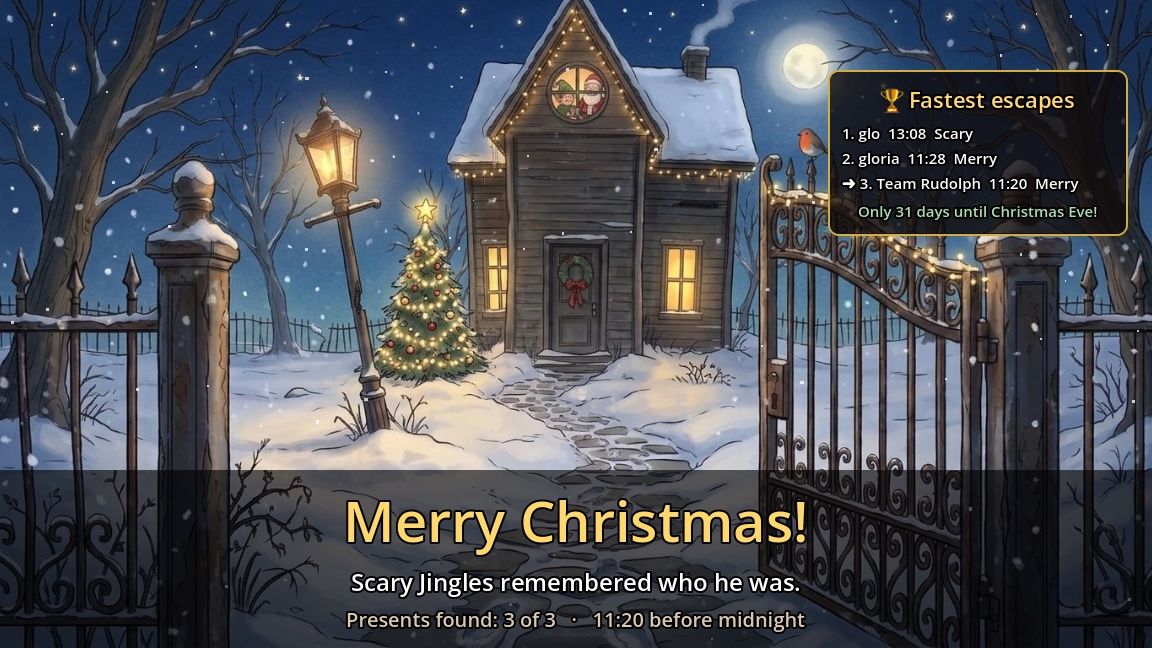
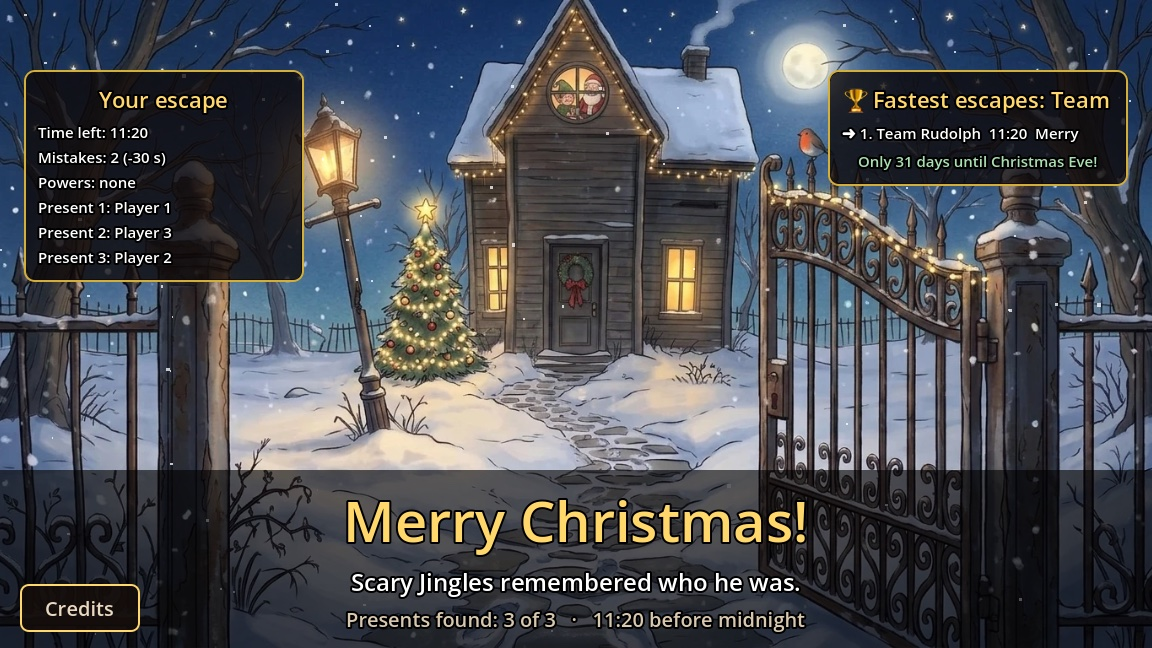
Docs for the final version: README, walkthrough, demo plan, screenshots
- README: languages, weather windows, accessibility, last five minutes, two leaderboards, 623 tests
- Walkthrough: new questions and answers, honest limits, who built what
- Demo plan: two minutes plus three for questions, no names
- Endings retaken; new pictures of the weather window and the title

Changed region(s): [[0.0, 0.0926, 0.2812, 0.463], [0.7188, 0.1235, 1.0, 0.3704], [0.0, 0.8951, 0.125, 0.9877]]

diff --git a/docs/WALKTHROUGH.md b/docs/WALKTHROUGH.md
@@ -44,15 +44,20 @@ and the rules can be tested without starting any screen.
 
 | Question | Answer and file |
 | --- | --- |
-| Where does the game start? | `scenes/main.tscn` + `scripts/main.gd`: story → title → lobby → hero choice → hall/rooms → ending |
-| Where are the puzzles' rules? | `scripts/rules/` one file per part: `fuse_rules`, `living_room_rules`, `bathroom_rules`, `bedroom_rules`, `attic_rules`, `photo_rules`, `clock_rules`, `inventory_rules`, `power_rules`, `walk_rules`, `leaderboard_rules`, `weather_rules`, `character_rules`; `game_rules.gd` puts them together (`new_game`, `apply`) |
+| Where does the game start? | `scenes/main.tscn` + `scripts/main.gd`: warning → story → title → lobby → hero choice → hall/rooms → ending |
+| Where are the puzzles' rules? | `scripts/rules/` one file per part: `fuse_rules`, `living_room_rules`, `bathroom_rules`, `bedroom_rules`, `attic_rules`, `photo_rules`, `clock_rules`, `inventory_rules`, `power_rules`, `walk_rules`, `leaderboard_rules`, `results_rules`, `weather_rules`, `character_rules`; `game_rules.gd` puts them together (`new_game`, `apply`) |
 | How is the ending decided? | `attic_rules.gd` `choose(attic, choice, has_photo, has_cookies)`: "lock him in" always works (Scary); "leave the photo and cookies" (Merry) only with the whole photo **and** the cookies, otherwise it is refused with a hint. Midnight comes from `clock_rules.gd` |
 | Where are numbers like the 20 minutes? | `scripts/settings.gd` (`GAME_SECONDS`, ports, items, heroes, rescue tries) |
 | How do players connect? | `scripts/net/network.gd` (Godot high-level multiplayer, ENet, port 47411) and `room_code.gd` (4-letter code, found on the Wi-Fi via port 47412) |
 | Playing alone? | `network.play_alone()`: the computer is host with one player, no network at all |
 | Where is the data stored? | the running game in memory on the host (`net.game`); the **save** in `user://saved_game.save` on the host's computer; the **leaderboard** in a Supabase table online, or `user://leaderboard.json` locally |
-| The database table? | `supabase/leaderboard.sql`: columns, checks and the two access rules |
-| External API? | weather in Nuuk from **Open-Meteo** (`window_view.gd`, `weather_rules.gd`, no key) and **Supabase** for the leaderboard (`net/leaderboard.gd`) |
+| The database table? | `supabase/leaderboard.sql`: columns, checks and the two access rules; `leaderboard_mode.sql` added the column for solo/team later |
+| External API? | weather in Nuuk from **Open-Meteo** (`window_view.gd`, `weather_rules.gd`, no key; the windows in the living room, bathroom and bedroom) and **Supabase** for the leaderboard (`net/leaderboard.gd`) |
+| Languages? | `lang.gd` + `translations/de.gd`, `pt.gd` (spec 34): the code stays English, every device translates what it shows |
+| What happens at the end? | `ending.gd`: results card (`results_rules.gd`), leaderboard, countdown, credits (`Settings.TEAM`) |
+| The last five minutes? | `clock_rules.gd` `dread_stage`, `chime_due` (pure functions) and `main.gd` `_update_dread` (spec 35) |
+| Warning and "Reduce flashing"? | `flash_warning.gd`, `comfort.gd` (spec 34) |
+| Pause? | the Pause button stops the game for the whole team (an action like any other, spec 26); in the browser, leaving the tab pauses by itself (`main.gd` `_watch_web_page`) |
 | Pictures and sounds? | `godot/assets/`, every source and licence in `assets/CREDITS.md`; helper scripts in `godot/tools/` |
 | The browser version? | `web/` (Godot's Web export, preset in `godot/export_presets.cfg`), put online by `.github/workflows/pages.yml` (spec 32) |
 | Tests? | `godot/tests/`, one file per part, runner `run_tests.gd` |
@@ -67,21 +72,27 @@ set up, otherwise in a local JSON file. Nothing is stored about the players exce
 they type.
 
 **What do the tests cover, and what do they not cover?**
-There are about 540 tests in `godot/tests/`. They cover:
+There are 623 tests in `godot/tests/` (23 November 2026). They cover:
 - every rule with **accepted and refused** actions and edge cases (wrong code, twice, dark
   room, wrong player, too many tries → rescue hint)
 - the screens: does the button exist, is it greyed out, what does a click send?
 - the network with real host and players on this computer
-- save and resume, the leaderboard rules (bad rows from outside are thrown away), and the
-  weather (good answer, bad answer, no answer)
+- save and resume, the leaderboard rules (bad rows from outside are thrown away; solo and
+  team apart), and the weather (good answer, bad answer, no answer)
+- security: an unknown sender, a wrong player number and senseless input change nothing
+  (`test_network_security.gd`; more in `SECURITY.md`)
+- the languages: every translation keeps its placeholders, and the texts fit on the hall,
+  the hero choice and the end screen in all three languages
 
 A test also fails if Godot reports an error while it runs, so a crash can never look green.
 Tests use their own save and leaderboard files and never touch the internet.
 
 They do **not** cover:
 - how it looks (pictures, positions): we checked that by screenshots and play tests
-- sound
+- sound (they check *which* sound would be played, not how it sounds)
 - three real laptops on a real Wi-Fi
+- a real browser: the pause on leaving the tab is tested as a function; in the browser we
+  tried it by hand
 - the real Supabase and Open-Meteo servers
 
 **What happens if the external API is unavailable?**
@@ -89,6 +100,26 @@ They do **not** cover:
   and it snows anyway. The game never waits for it, and it costs no time.
 - **Supabase:** after 4 seconds (`TIMEOUT_SECONDS`), or on any error, the end screen shows
   the local list instead. Every win is always saved locally too.
+
+**Why are there two leaderboards?**
+One player solves all rooms alone, a team of three splits them up, with the same 20 minutes.
+The times cannot be compared fairly, so every win has a `mode` (solo or team) and the end
+screen shows only its own list. Wins from before this change count as team wins.
+
+**How do the languages work in a three-player game?**
+The host builds every message in English ("Player 2: wrong order, -10 s"). Each device
+translates it for itself: a template like `%s: wrong order, -%d s` matches the message, and
+its parts are translated one by one. So the shared game has no language, three players can
+use three languages at once, and a text without a translation simply stays English.
+
+**Why does the game pause when I leave the browser tab?**
+A browser stops drawing a page in the background but lets its sound play on. So the game
+pauses and mutes itself, and waits for *Continue*. This exists only in the browser (where
+one person plays), so in a team game nobody stops the others by accident.
+
+**What did you do for accessibility?**
+A warning before the flickering lights with a *Reduce flashing* switch, fuses that differ by
+shape as well as by colour, the story as subtitles, a music button, three languages.
 
 **Why is the host the referee?**
 If every player changed the game themselves, two players could change it at the same time
@@ -112,8 +143,8 @@ every room owner could work in their own file without breaking the others.
   (Checked in the Supabase dashboard: *Database → Policies*; the SQL is in
   `supabase/leaderboard.sql`.)
 - Input is checked in two places: the host's rules check every action, and leaderboard
-  rows from outside are checked (name 1-20 letters, merry/scary, 0-3600 s) both by the
-  Supabase table and in the game.
+  rows from outside are checked (name 1-20 letters, merry/scary, solo/team, 0-3600 s) both by
+  the Supabase table and in the game.
 - **The rules for secrets** are written down in `AGENTS.md`; `supabase.cfg.example` shows
   the format with placeholders, and the real `supabase.cfg` is in `.gitignore`. The Git
   history contains no key.
@@ -132,7 +163,7 @@ every room owner could work in their own file without breaking the others.
   add buttons for walking.
 - **Multiplayer needs the same network.** Players find the host on the local Wi-Fi (or
   type the host's address). It does not work across the internet, and university Wi-Fi may
-  block it, so the demo uses three windows on one laptop or **Play alone**.
+  block it, so the demo uses one phone's hotspot (or three windows on one laptop).
 - **The host is a single point of failure.** If the host quits, everyone is back in the
   lobby; only the host can resume the save.
 - **The leaderboard trusts the host.** With the public key, someone could send a fake but
@@ -140,6 +171,15 @@ every room owner could work in their own file without breaking the others.
 - **The free Supabase project pauses** after a week without use. Then the online list is
   not reachable and the game shows the local list after 4 seconds (nothing breaks). Before
   the presentation, open the Supabase dashboard once to wake it up.
+- **Scores from the browser are not online.** The browser version has no key on purpose, so
+  its wins stay in that browser. Only a host with `supabase.cfg` saves wins online.
+- **Walking is for atmosphere.** The figures walk in the hall, but the puzzles are solved by
+  clicking; standing at an object is not needed. It was planned as a first step (spec 19).
+- **Some things stay English:** the story's voice, the texts inside pictures, and the titles
+  of the two endings. *Reduce flashing* is not remembered after closing the game, and it does
+  not switch off the short scare in the bathroom mirror.
+- **Several specs have the number 34.** They were written by several people at once on the
+  last day; each is its own file with its own name.
 - **The puzzles are random within limits** (clock time, tap order, symbols, fuse orders),
   but the rooms and story are always the same.
 - **Pictures** are fixed 1376 × 768 pictures; a very different window shape shows bars.
@@ -149,6 +189,8 @@ every room owner could work in their own file without breaking the others.
 - **Online play** over the internet, also in the browser: replace ENet with WebSockets
   through a server in the middle (or Supabase Realtime). The rules would not change at
   all, only `network.gd`.
+- **A new language:** one more file in `scripts/translations/` and one line in
+  `Lang.LANGUAGES`.
 - **A new room:** a scene + a rules file + an entry in `main.gd` `SCREENS` + actions in
   `game_rules.gd` `apply`.
 - **Fair leaderboard:** let a small server (e.g. a Supabase Edge Function) check the
@@ -161,7 +203,7 @@ every room owner could work in their own file without breaking the others.
 | Part | Main person |
 | --- | --- |
 | Hall, fuse box, network, clock, inventory, save/resume, weather | Mathies |
-| Living room, clock lock, rhyme | Lara |
-| Bathroom, attic, endings, pictures, single player, powers, leaderboard, cookies | Gloria |
-| Bedroom, toy chest, advent calendar | Mika |
-| Story, title, heroes and accessories, walking, sounds, pause | Leon |
+| Living room, clock lock, rhyme, security tests and review (`SECURITY.md`) | Lara |
+| Bathroom, attic, endings, pictures, single player, powers, leaderboard, cookies, browser version | Gloria |
+| Bedroom, toy chest, advent calendar, weather windows in bedroom and bathroom, browser pause, Windows fix | Mika |
+| Story, title, heroes and accessories, walking, sounds, pause, languages, music button, results card, credits, warning, hover glow, last five minutes, two leaderboards | Leon |

diff --git a/README.md b/README.md
@@ -16,17 +16,32 @@ left, and the game says what is missing.
 
 Every hero has one power per game: Santa's **Ho ho hint**, the Snowman's **Freeze**
 (+30 seconds) and the Nutcracker's **Crack** (part of an answer). The fastest wins go on a
-**leaderboard** on the end screen, with a countdown to Christmas Eve.
+**leaderboard** on the end screen (one list for solo players, one for teams), next to a
+results card and a countdown to Christmas Eve.
+
+### What else is in it
+
+- **Three languages:** English, German and Portuguese, chosen on the title screen. Every
+  player chooses for themselves, so a team can play in three languages at once. (The
+  story's voice is English; its subtitles are translated.)
+- **Easier on the eyes:** a warning before the flickering lights with a *Reduce flashing*
+  switch (also on the pause screen), and the fuses differ by shape as well as by colour.
+- **Real weather:** the windows in the living room, bathroom and bedroom show the weather in
+  Nuuk, Greenland, right now.
+- **The last five minutes get scary:** the music speeds up, Jingles' snoring is heard
+  everywhere, the clock strikes every minute, and in the last two minutes the lights flicker.
+- **Small things:** a music on/off button, a soft glow on clickable things, a floating
+  "−10 s" when a wrong answer costs time, credits, pause, save and resume.
 
 ## Team
 
 | Name | Student number | Main parts |
 | --- | --- | --- |
-| Gloria Bogea Heinzel | 79191 | bathroom, attic, end screens, all pictures, single player, hero powers, leaderboard, cookies |
-| Lara Victoria Glück | 70426 | living room, clock lock, rhyme |
-| Leon Blieffert | 73695 | title and story, characters and accessories, walking, sounds, pause |
+| Gloria Bogea Heinzel | 79191 | bathroom, attic, end screens, all pictures, single player, hero powers, leaderboard, cookies, browser version |
+| Lara Victoria Glück | 70426 | living room, clock lock, rhyme, security tests and review |
+| Leon Blieffert | 73695 | title and story, characters and accessories, walking, sounds, pause, languages, music button, results card, credits, last five minutes |
 | Carl Mathies Rumohr | 71317 | hall and fuse box, network, clock, inventory, save and resume, weather |
-| Mika Nolte | 71772 | bedroom, toy chest, advent calendar |
+| Mika Nolte | 71772 | bedroom, toy chest, advent calendar, weather windows in bedroom and bathroom, browser pause, Windows fix |
 
 ## Demo
 
@@ -34,7 +49,9 @@ Every hero has one power per game: Santa's **Ho ho hint**, the Snowman's **Freez
 
 Play it in a desktop browser on a laptop or computer (Chrome, Firefox, Safari, Edge).
 Phones and tablets are not supported: the game needs a keyboard (for the name and for
-walking).
+walking). First comes a short warning about flickering lights (*Continue*), then *Click to
+start*: a browser plays no sound before the first click. If you leave the tab, the game
+pauses by itself; *Continue* goes on.
 
 The browser version is for **one player** (a web page may not open the network port that
 playing together needs). The **three-player game** runs in the Godot version on laptops in
@@ -51,9 +68,11 @@ Moments a short demo cannot reach (made from the game itself):
 | ![The attic after a wrong code: Jingles opens one eye](docs/screenshots/3-attic-wrong-code.jpg) | ![The attic choice: lock him in or leave the photo and cookies](docs/screenshots/4-attic-choice.jpg) |
 | A wrong code: Jingles opens one eye, and it costs 20 seconds | The choice: lock him in, or leave the photo and cookies (only possible with the whole photo and the cookies) |
 | ![Merry Christmas ending with the leaderboard](docs/screenshots/5-ending-merry.jpg) | ![Scary Christmas ending](docs/screenshots/6-ending-scary.jpg) |
-| Merry Christmas, with the leaderboard ("Team Rudolph" is an example) | Scary Christmas |
-| ![Midnight: Scary Jingles has won](docs/screenshots/7-ending-midnight.jpg) | |
-| Midnight: the clock struck twelve | |
+| Merry Christmas, with the results card and the leaderboard ("Team Rudolph" is an example) | Scary Christmas |
+| ![Midnight: Scary Jingles has won](docs/screenshots/7-ending-midnight.jpg) | ![The weather window with the live weather](docs/screenshots/8-weather-window.jpg) |
+| Midnight: the clock struck twelve | The weather in Nuuk right now, seen through the window |
+| ![The title screen with the three languages](docs/screenshots/9-title-languages.jpg) | |
+| The title screen: English, German or Portuguese | |
 
 ## Run the game
 
@@ -81,7 +100,8 @@ the code yourself, use Godot. It takes about 10 minutes the first time.
 2. The editor opens and imports the pictures and sounds (the first time this takes a
    minute).
 3. Press **▶** at the top right (or **F5** / on a Mac **Cmd + B**). The game starts in its
-   own window: the story (a click skips it), then **Start**, then the lobby.
+   own window: the warning (**Continue**), the story (a click skips it), then the title with
+   the languages and **Start**, then the lobby.
 
 From a terminal it works too (first import once, then start):
 
@@ -146,7 +166,7 @@ godot --headless --path godot --script res://tests/run_tests.gd
 ```
 
 All tests are in `godot/tests/` (one file per part, e.g. `test_bathroom_rules.gd`). The last
-line says how many passed, for example `552 passed, 0 failed`. Import the assets once first
+line says how many passed, for example `623 passed, 0 failed`. Import the assets once first
 (open the project once in the editor, or run the import command above).
 
 ## Update the browser version
@@ -176,7 +196,8 @@ One-time setup by the repository owner: **Settings → Pages → Source: GitHub 
 ## How it is built
 
 The full tour for the walkthrough (where the data is, what the tests cover, limits, how it
-could change) is in [docs/WALKTHROUGH.md](docs/WALKTHROUGH.md).
+could change) is in [docs/WALKTHROUGH.md](docs/WALKTHROUGH.md), the plan for the live demo in
+[docs/DEMO.md](docs/DEMO.md), and the security review in [SECURITY.md](SECURITY.md).
 
 - **Godot 4.7, GDScript.** Every screen is a scene in `godot/scenes/` with its script in
   `godot/scripts/`.
@@ -188,14 +209,17 @@ could change) is in [docs/WALKTHROUGH.md](docs/WALKTHROUGH.md).
   Players join with a 4-letter room code on the same Wi-Fi.
 - **Specs first.** Every feature has a short spec in `specs/` (what, why, done when), then
   tests, then the code.
-- **External data.** The living room window shows the real weather in Nuuk, Greenland, from
-  [Open-Meteo](https://open-meteo.com/) (free, no key). If it does not answer within a few
+- **External data.** The windows (living room, bathroom, bedroom) show the real weather in
+  Nuuk, Greenland, from [Open-Meteo](https://open-meteo.com/) (free, no key). If it does not answer within a few
   seconds, the window shows a frosted fallback, so the game never waits for it.
-- **Leaderboard.** The fastest wins (team name, ending, time left) are stored online in a
+- **Languages.** The code, the rules and the tests are English; every screen translates
+  itself when it is shown (`scripts/lang.gd`, texts in `scripts/translations/`).
+- **Leaderboard.** The fastest wins (name, ending, time left, solo or team) are stored online in a
   [Supabase](https://supabase.com/) table when it is set up (see *Online leaderboard*),
   otherwise in a file on the computer. If Supabase does not answer within 4 seconds, the
   local list is shown. The table only accepts sensible rows (name 1-20 letters,
-  merry/scary, 0-3600 seconds).
+  merry/scary, solo/team, 0-3600 seconds). The browser version has no key, so it keeps its own
+  list in that browser.
 - **Save and resume.** The host saves after every action; after a restart the lobby offers
   **Resume**.
 - **Security.** No accounts or passwords, and no keys in the repository. Players only send
@@ -217,7 +241,9 @@ key="YOUR-PUBLISHABLE-KEY"
 Or set the environment variables `SUPABASE_URL` and `SUPABASE_ANON_KEY`. Never put the
 secret (service role) key anywhere in the game.
 The table and its access rules are in `supabase/leaderboard.sql` (run it once in the
-Supabase SQL Editor for a new project). The file `supabase.cfg.example` shows the format; the real `supabase.cfg` is ignored by git
+Supabase SQL Editor for a new project). A table from before the two lists needs
+`supabase/leaderboard_mode.sql` once (ours: done on 23 November 2026). The file
+`supabase.cfg.example` shows the format; the real `supabase.cfg` is ignored by git
 (`.gitignore`), and the rules for secrets are in [AGENTS.md](AGENTS.md).
 
 ## Project structure
@@ -227,14 +253,18 @@ godot/
   scenes/          one scene per screen (hall, bathroom, attic, ...)
   scripts/         the screens' scripts
   scripts/rules/   the game rules (pure functions, tested)
-  scripts/net/     network: rooms, joining, sending the shared game
+  scripts/net/     network: rooms, joining, sending the shared game, the leaderboard
+  scripts/translations/  the German and Portuguese texts
   tests/           all tests and the test runner
   tools/           helper scripts for the pictures (add_image, cut_photo, ...)
   assets/          pictures and sounds, with CREDITS.md
 specs/             one short spec per feature
-docs/              walkthrough, demo plan, screenshots, team guide and asset brief
+docs/              walkthrough, demo plan, screenshots, team guide, asset brief, security audit
 supabase/          the leaderboard table and its access rules (SQL)
 web/               the game exported for the browser (GitHub Pages)
+.github/workflows/ puts web/ online whenever main changes
+AGENTS.md          our rules for coding agents; SECURITY.md: security tests and review
+streamlit_app.py   a placeholder page from the first week (with requirements.txt), not the game
 ```
 
 ## Credits

diff --git a/docs/DEMO.md b/docs/DEMO.md
@@ -1,35 +1,35 @@
 # Demo plan
 
-Our plan for the live demo, following the course guide *Preparing the demo*. The demo runs
-at the public URL; the three-player game is shown live on laptops.
+Our plan for the live demo, following the course guide *Preparing the demo*: **two minutes
+of demo, three minutes of questions.** The demo runs at the public URL; the three-player game
+is shown live on laptops.
 
 **Public URL:** https://laraglueck.github.io/Merry-Scary-Christmas/
 
-## 1. What we show, in this order
+## 1. What we show, in this order (2 minutes)
 
-| # | What | Where | Shows |
+| Time | What | Where | Shows |
 | --- | --- | --- | --- |
-| 1 | Open the URL, the story (skip with a click), title, **Play alone**, name, choose a hero | browser, projector | the app runs at its URL; story and art |
-| 2 | Hall: mission card, the doll's note, fuse box (one **wrong** order first, then the right one) | browser | a refused action and its message; the lights come on |
-| 3 | Living room: the window (live weather in Nuuk), the cookies, the clock | browser | the external API; the inventory |
-| 4 | Use the hero's power (Santa's **Ho ho hint**) | browser | the powers; the hint box |
-| 5 | Three players: one laptop **Create room**, two **Join** with the code, each picks a hero | 3 laptops, one network or phone hotspot | multiplayer, the host as referee |
-| 6 | An ending and the **leaderboard** (fastest escapes) | laptop (online list) | stored data, the end screen |
+| 0:00 | The URL is already open on the title screen: one sentence on the story, the three languages, **Start**, **Play alone**, name, hero | browser, projector | the app runs at its URL; story, art, languages |
+| 0:25 | Hall: the doll's note, the fuse box, one **wrong** order first ("−10 s", the screen shakes), then the right one | browser | a refused action and its message; the lights come on |
+| 1:00 | Living room: look out of the **window** (live weather in Nuuk) | browser | the external API |
+| 1:15 | The hero's power (Santa's **Ho ho hint**) | browser | the powers; the hint box |
+| 1:25 | Switch to the prepared **three-player room**: three heroes in the hall, one player solves something, all three screens change | 3 laptops, one phone hotspot | multiplayer, the host as referee |
+| 1:50 | Closing sentence with the pictures of the endings (README) | browser, projector | the two leaderboards, results card, the three endings |
 
-A whole game takes too long for the demo: for step 6 use a game that is almost finished
-(save it the day before and **Resume** it), or show the end screen of a quick test game.
+A whole game takes about 20 minutes, so the attic and the endings are shown as screenshots
+(`docs/screenshots/`). The bedroom chest cannot be opened first: its symbols come from the
+bathroom.
 
-## 2. Who does what
+**If time runs short:** leave out 1:15 (the power), never the window or the three players.
 
-| Role | Member |
-| --- | --- |
-| Operates the browser demo (projector) | _to fill in_ |
-| Host laptop (Create room) | _to fill in_ |
-| Player laptops (Join) | _to fill in_, _to fill in_ |
-| Speaks: story and rooms | _to fill in_ |
-| Speaks: how it is built (see `docs/WALKTHROUGH.md`) | _to fill in_ |
+## 2. Roles
 
-At least two members can operate the demo, in case one is absent or a laptop fails.
+We agree on the roles before the demo: one operates the browser, one hosts the three-player
+room, two join it, and everyone can answer questions (any of us may be asked about any part:
+[WALKTHROUGH.md](WALKTHROUGH.md)). At least two of us can operate the demo, in case one is
+absent or a laptop fails. The host's laptop should be one with the Supabase settings, because
+only the host saves a win online.
 
 ## 3. What the demo depends on, and what happens if it fails
 
@@ -40,36 +40,40 @@ At least two members can operate the demo, in case one is absent or a laptop fai
 | **Open-Meteo** (weather in the window) | service down, slow, no internet | after 4 s a frosted window with "it snows anyway"; costs no game time | try once with Wi-Fi off |
 | **Local network** (3 players) | eduroam blocks laptops from each other; room code not found | use one phone's hotspot; type the host's address instead of the code (README) | test the three laptops on the hotspot the day before |
 | **Device** | someone opens the URL on a phone | phones are not supported (no on-screen keyboard); use a laptop | — |
-| **Sound** | projector has no sound | subtitles show the story | — |
+| **Leaving the browser tab** | the game pauses and goes silent ("Paused while away") | click **Continue**; this is meant to happen | do not switch windows during the browser part |
+| **Versions** | the three laptops have different versions | joining or playing can go wrong | all pull the newest `main` the day before |
+| **Sound** | projector has no sound; the music button is off | subtitles show the story | play one sound before our turn |
 | **Secrets** | a key visible on the projector | close the Supabase dashboard and `supabase.cfg` | before sharing the screen |
 
 No accounts, no passwords and no AI models: nothing to log in to and no daily quota.
 
-The **browser version** keeps its own local leaderboard (it has no key), so the online list
-is shown in the Godot version on a laptop.
+The **browser version** keeps its own local leaderboard (it has no key, on purpose), so the
+online list is shown in the Godot version on a laptop.
 
 ## 4. Checklists
 
 **The week before**
-- [ ] Everything we show is merged to `main` and live at the URL.
+- [x] Everything is merged to `main` and live at the URL (23 November).
 - [ ] The whole demo runs once at the **URL** (not only on a laptop), in the order above.
 - [ ] Starting data: the leaderboard has meaningful rows (remove test rows like "test" in the
       Supabase dashboard if we want a clean list).
 - [ ] Failures tried on purpose: wrong fuse order, wrong clock time, invalid room code, an
       empty name (Start stays greyed out), Wi-Fi off for the weather.
-- [ ] Tests pass on `main`, and everyone can say what they cover and what they do not
-      (`docs/WALKTHROUGH.md`).
-- [ ] Repository: public; README has the URL, members, run and test commands; no keys.
+- [x] Tests pass on `main` (23 November).
+- [ ] Everyone can say what the tests cover and what they do not (`docs/WALKTHROUGH.md`).
+- [x] Repository: public; README has the URL, members, run and test commands; no keys
+      (23 November).
 
 **The day before**
-- [ ] One full rehearsal at the URL with the member who operates it.
+- [ ] One full rehearsal at the URL with a clock: two minutes.
 - [ ] Supabase dashboard opened: the project is not paused.
 - [ ] Three laptops tested together on the phone hotspot.
-- [ ] A nearly finished game saved for step 6.
+- [ ] All laptops have the newest `main`.
 - [ ] Stop merging.
 
 **On the day**
-- [ ] Open the URL before our turn (the game loads about 50 MB the first time).
+- [ ] Open the URL before our turn and click through to the title screen (the first
+      load is large, up to 85 MB).
 - [ ] One browser window, only the demo tab; dashboards, `supabase.cfg` and the agent closed.
-- [ ] Hotspot on; the two player laptops ready in the lobby.
+- [ ] Hotspot on; the three laptops already in the hall with their heroes.
 - [ ] If something fails: say what happened, show the fallback, continue.
